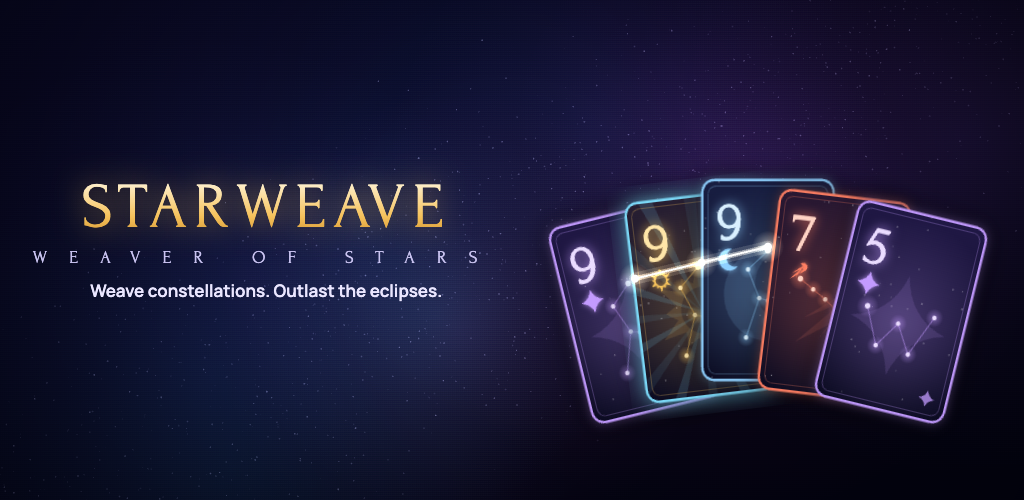
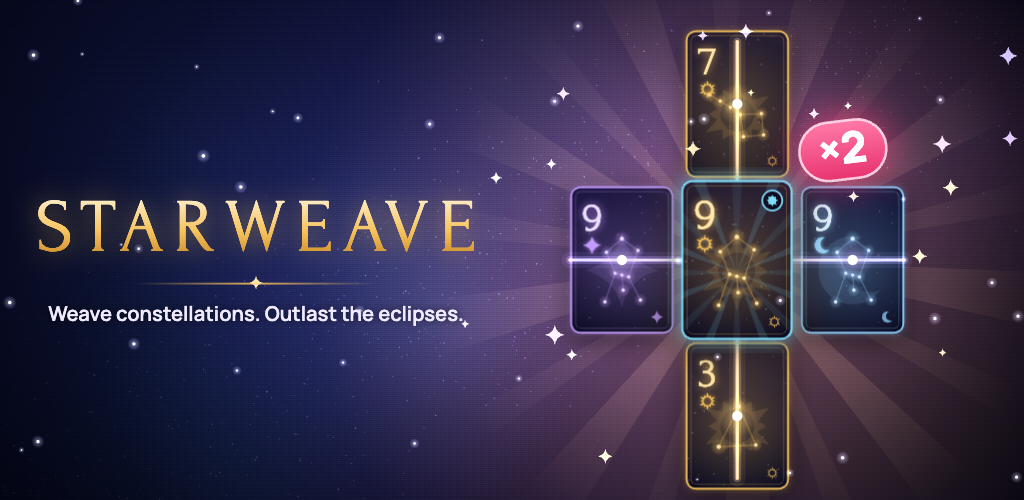
feat(store): new store cover built around the cross
The old cover was a dim fan of cards with a squeezed fallback-font title.
The new one shows the game's signature moment: a row of three nines and a
column of suns crossing on one card, both lines lit, light rays and a ×2
badge in a free corner, warm and violet halos over the nebula, sparkles.
The title uses the menu logo's exact look (Forum, 0.14em tracking, gold
gradient, glow) on two lines in Russian, sized to fit instead of squeezed.

Also fixed a path leak: sparkle shapes were appended to the badge path and
filled it white. Store assets regenerated; Telegram's 640x360 image is now
rendered at its own size instead of cropped.

diff --git a/src/dev/promo.ts b/src/dev/promo.ts
@@ -1,13 +1,27 @@
 import { cardFace } from '@/art/card';
-import { glowDot } from '@/art/glyphs';
+import { glowDot, roundRect, sparklePath } from '@/art/glyphs';
 import { renderNebula } from '@/art/nebula';
 import { DISPLAY_FONT, BODY_FONT } from '@/art/palette';
 import type { Card } from '@/core/types';
 import { t } from '@/i18n';
 
+type Ctx = CanvasRenderingContext2D;
+type Face = Pick<Card, 'suit' | 'rank' | 'glyph'>;
+
+/** Детерминированный «случай» — обложка одинакова при каждой генерации. */
+function rand(seed: number): () => number {
+  let s = seed;
+  return () => {
+    s = (s * 16807) % 2147483647;
+    return s / 2147483647;
+  };
+}
+
 /**
- * Обложка для витрин (`?promo`): небо, веер карт с крестом созвездий, логотип.
- * Рисуется на весь экран — Playwright снимает её в нужном размере (800×470 и т.п.).
+ * Обложка для витрин (`?promo`). В центре — главный момент игры: крест. Ряд из трёх девяток
+ * (Тройка) и столбец солнц (Флеш) пересекаются на одной карте, обе линии вспыхивают, ×2.
+ * Слева (или сверху на вертикальной обложке) — название нашим шрифтом и слоган.
+ * Рисуется на весь экран — Playwright снимает в нужном размере (800×470, 1024×500, 640×360).
  */
 export function showPromo(root: HTMLElement): void {
   const w = window.innerWidth;
@@ -20,74 +34,238 @@ export function showPromo(root: HTMLElement): void {
   root.append(canvas);
   const ctx = canvas.getContext('2d')!;
   ctx.scale(dpr, dpr);
-  ctx.drawImage(renderNebula(w, h, 31), 0, 0, w, h);
 
   const wide = w / h > 1.2;
-  const cardW = Math.round(Math.min(h * 0.3, w * (wide ? 0.13 : 0.24)));
-  const cards: Pick<Card, 'suit' | 'rank' | 'glyph'>[] = [
-    { suit: 'star', rank: 9 },
-    { suit: 'sun', rank: 9, glyph: 'radiant' },
-    { suit: 'moon', rank: 9 },
-    { suit: 'comet', rank: 7 },
-    { suit: 'star', rank: 5 },
-  ];
-  // Веер карт справа (на широкой обложке) или снизу (на вертикальной)
-  const cx = wide ? w * 0.75 : w / 2;
-  const cy = wide ? h * 0.56 : h * 0.66;
-  const pts: { x: number; y: number }[] = [];
-  cards.forEach((card, i) => {
-    const k = i - (cards.length - 1) / 2;
-    const img = cardFace(card, cardW, dpr);
-    const cw = cardW * 1.24;
-    const ch = (cardW / 0.7) * 1.24;
-    const x = cx + k * cardW * (wide ? 0.5 : 0.62);
-    const y = cy + Math.abs(k) * cardW * 0.12;
-    ctx.save();
-    ctx.translate(x, y);
-    ctx.rotate(k * 0.12);
-    ctx.shadowColor = 'rgba(0,0,0,0.6)';
-    ctx.shadowBlur = 24;
-    ctx.drawImage(img, -cw / 2, -ch / 2, cw, ch);
-    ctx.restore();
-    pts.push({ x, y: y - cardW * 0.25 });
-  });
-  // Линия созвездия над тремя девятками — как вспышка в игре
+  // Крест: справа на широкой обложке, снизу — на вертикальной
+  const cx = wide ? w * 0.72 : w / 2;
+  const cy = wide ? h * 0.52 : h * 0.62;
+  const cardW = Math.round(wide ? Math.min(h * 0.205, w * 0.11) : Math.min(w * 0.2, h * 0.11));
+  const cardH = cardW / 0.7;
+
+  drawSky(ctx, w, h, cx, cy, dpr);
+  drawCross(ctx, cx, cy, cardW, cardH, dpr);
+  drawSparkles(ctx, w, h, cx, cy, cardW);
+  drawTitle(ctx, w, h, wide);
+}
+
+/** Небо: туманность, тёплое сияние за крестом и виньетка, уводящая взгляд к центру. */
+function drawSky(ctx: Ctx, w: number, h: number, cx: number, cy: number, dpr: number): void {
+  ctx.drawImage(renderNebula(w, h, 31, undefined, dpr), 0, 0, w, h);
   ctx.save();
   ctx.globalCompositeOperation = 'lighter';
-  for (const [lw, a] of [[12, 0.12], [5, 0.35], [2, 1]] as const) {
-    ctx.strokeStyle = `rgba(255,236,190,${a})`;
-    ctx.lineWidth = lw;
-    ctx.lineCap = 'round';
+  const r = Math.max(w, h);
+  const halo = (x: number, y: number, rad: number, rgb: string, a: number) => {
+    const g = ctx.createRadialGradient(x, y, 0, x, y, rad);
+    g.addColorStop(0, `rgba(${rgb},${a})`);
+    g.addColorStop(1, `rgba(${rgb},0)`);
+    ctx.fillStyle = g;
+    ctx.fillRect(0, 0, w, h);
+  };
+  halo(cx, cy, r * 0.42, '246,170,70', 0.32);
+  halo(cx - r * 0.12, cy + r * 0.05, r * 0.5, '140,90,255', 0.22);
+  halo(w * 0.18, h * 0.3, r * 0.45, '60,120,255', 0.14);
+  ctx.restore();
+  const vig = ctx.createRadialGradient(cx, cy, Math.min(w, h) * 0.35, w / 2, h / 2, Math.hypot(w, h) * 0.65);
+  vig.addColorStop(0, 'rgba(0,0,10,0)');
+  vig.addColorStop(1, 'rgba(0,0,10,0.55)');
+  ctx.fillStyle = vig;
+  ctx.fillRect(0, 0, w, h);
+}
+
+function drawCard(ctx: Ctx, face: Face, x: number, y: number, cardW: number, dpr: number): void {
+  const img = cardFace(face, cardW, dpr);
+  const pad = Math.ceil(cardW * 0.12);
+  const iw = cardW + pad * 2;
+  const ih = Math.round(cardW / 0.7) + pad * 2;
+  ctx.save();
+  ctx.shadowColor = 'rgba(0,0,0,0.55)';
+  ctx.shadowBlur = cardW * 0.25;
+  ctx.shadowOffsetY = cardW * 0.06;
+  ctx.drawImage(img, x - iw / 2, y - ih / 2, iw, ih);
+  ctx.restore();
+}
+
+/** Светящаяся линия созвездия: широкий мягкий слой, средний и яркая сердцевина. */
+function glowLine(ctx: Ctx, from: { x: number; y: number }, to: { x: number; y: number }, rgb: string, width: number): void {
+  ctx.save();
+  ctx.globalCompositeOperation = 'lighter';
+  ctx.lineCap = 'round';
+  for (const [k, a] of [[4.5, 0.07], [2.2, 0.2], [1, 0.55], [0.4, 0.95]] as const) {
+    ctx.strokeStyle = `rgba(${rgb},${a})`;
+    ctx.lineWidth = width * k;
     ctx.beginPath();
-    pts.slice(0, 3).forEach((p, i) => (i ? ctx.lineTo(p.x, p.y) : ctx.moveTo(p.x, p.y)));
+    ctx.moveTo(from.x, from.y);
+    ctx.lineTo(to.x, to.y);
     ctx.stroke();
   }
-  for (const p of pts.slice(0, 3)) glowDot(ctx, p.x, p.y, 4, 'rgba(255,236,190,0.95)');
+  ctx.restore();
+}
+
+function drawCross(ctx: Ctx, cx: number, cy: number, cardW: number, cardH: number, dpr: number): void {
+  const dx = cardW * 1.12;
+  const dy = cardH * 1.06;
+  const row = [
+    { face: { suit: 'star', rank: 9 } as Face, x: cx - dx, y: cy },
+    { face: { suit: 'moon', rank: 9 } as Face, x: cx + dx, y: cy },
+  ];
+  const col = [
+    { face: { suit: 'sun', rank: 7 } as Face, x: cx, y: cy - dy },
+    { face: { suit: 'sun', rank: 3 } as Face, x: cx, y: cy + dy },
+  ];
+
+  // Лучи вспышки за центральной картой
+  ctx.save();
+  ctx.globalCompositeOperation = 'lighter';
+  ctx.translate(cx, cy);
+  const rays = 18;
+  const len = Math.max(dx, dy) * 2;
+  for (let i = 0; i < rays; i++) {
+    const a = (i / rays) * Math.PI * 2 + 0.13;
+    const spread = i % 2 ? 0.05 : 0.09;
+    const g = ctx.createLinearGradient(0, 0, Math.cos(a) * len, Math.sin(a) * len);
+    g.addColorStop(0, `rgba(255,214,140,${i % 2 ? 0.12 : 0.2})`);
+    g.addColorStop(1, 'rgba(255,214,140,0)');
+    ctx.fillStyle = g;
+    ctx.beginPath();
+    ctx.moveTo(0, 0);
+    ctx.lineTo(Math.cos(a - spread) * len, Math.sin(a - spread) * len);
+    ctx.lineTo(Math.cos(a + spread) * len, Math.sin(a + spread) * len);
+    ctx.closePath();
+    ctx.fill();
+  }
   ctx.restore();
 
-  // Логотип и слоган
-  const lx = wide ? w * 0.26 : w / 2;
-  const ly = wide ? h * 0.42 : h * 0.2;
-  const size = Math.min(wide ? w * 0.062 : w * 0.13, h * 0.16);
+  for (const c of [...row, ...col]) drawCard(ctx, c.face, c.x, c.y, cardW, dpr);
+
+  // Обе линии вспыхивают через крест: ряд (Тройка) — сиреневым, столбец (Флеш) — золотом
+  const lineW = cardW * 0.035;
+  glowLine(ctx, { x: cx - dx * 1.45, y: cy }, { x: cx + dx * 1.45, y: cy }, '190,170,255', lineW);
+  glowLine(ctx, { x: cx, y: cy - dy * 1.4 }, { x: cx, y: cy + dy * 1.4 }, '255,214,130', lineW);
+
+  // Центральная карта — поверх линий, с золотым ореолом
+  const big = cardW * 1.08;
+  ctx.save();
+  ctx.shadowColor = 'rgba(255,200,110,0.95)';
+  ctx.shadowBlur = cardW * 0.6;
+  roundRect(ctx, cx - big / 2, cy - big / 1.4, big, big / 0.7, big * 0.09);
+  ctx.fillStyle = 'rgba(255,220,150,0.35)';
+  ctx.fill();
+  ctx.restore();
+  drawCard(ctx, { suit: 'sun', rank: 9, glyph: 'radiant' }, cx, cy, big, dpr);
+
+  // Узлы созвездий в центрах карт
+  for (const c of row) glowDot(ctx, c.x, c.y, cardW * 0.05, 'rgba(200,180,255,0.9)');
+  for (const c of col) glowDot(ctx, c.x, c.y, cardW * 0.05, 'rgba(255,214,130,0.9)');
+
+  // Метка «×2» — как во вспышке креста в игре
+  const fs = cardW * 0.42;
+  ctx.save();
+  ctx.font = `800 ${fs}px ${BODY_FONT}`;
+  const pw = ctx.measureText('×2').width + fs * 0.9;
+  const ph = fs * 1.35;
+  // В свободном углу над рядом, справа от верхней карты — не закрывает ни одного ранга
+  ctx.translate(cx + cardW / 2 + pw * 0.62, cy - cardH / 2 - ph * 0.62);
+  ctx.rotate(-0.12);
+  ctx.shadowColor = 'rgba(255,60,120,0.85)';
+  ctx.shadowBlur = fs * 0.9;
+  roundRect(ctx, -pw / 2, -ph / 2, pw, ph, ph / 2);
+  const g = ctx.createLinearGradient(0, -ph / 2, 0, ph / 2);
+  g.addColorStop(0, '#ff7aa8');
+  g.addColorStop(1, '#e8336f');
+  ctx.fillStyle = g;
+  ctx.fill();
+  ctx.shadowColor = 'transparent';
+  ctx.lineWidth = Math.max(1, fs * 0.06);
+  ctx.strokeStyle = 'rgba(255,220,235,0.9)';
+  ctx.stroke();
+  ctx.fillStyle = '#fff';
   ctx.textAlign = 'center';
   ctx.textBaseline = 'middle';
-  ctx.font = `400 ${size}px ${DISPLAY_FONT}`;
-  const grad = ctx.createLinearGradient(0, ly - size / 2, 0, ly + size / 2);
-  grad.addColorStop(0, '#fff6dc');
-  grad.addColorStop(0.6, '#f6c25b');
-  grad.addColorStop(1, '#c98a2a');
-  ctx.shadowColor = 'rgba(246,194,91,0.6)';
-  ctx.shadowBlur = 30;
-  ctx.fillStyle = grad;
-  ctx.letterSpacing = `${size * 0.12}px`;
-  ctx.fillText(t('game.title').toUpperCase(), lx, ly, wide ? w * 0.48 : w * 0.92);
-  ctx.shadowBlur = 0;
-  ctx.letterSpacing = `${size * 0.35}px`;
-  ctx.font = `400 ${size * 0.28}px ${DISPLAY_FONT}`;
-  ctx.fillStyle = '#c9c3f0';
-  if (t('game.subtitle')) ctx.fillText(t('game.subtitle').toUpperCase(), lx, ly + size * 0.75);
+  ctx.fillText('×2', 0, fs * 0.04);
+  ctx.restore();
+}
+
+/** Искры вокруг креста и редкие звёзды по небу. */
+function drawSparkles(ctx: Ctx, w: number, h: number, cx: number, cy: number, cardW: number): void {
+  const r = rand(7);
+  ctx.save();
+  ctx.globalCompositeOperation = 'lighter';
+  for (let i = 0; i < 26; i++) {
+    const a = r() * Math.PI * 2;
+    const d = cardW * (1.2 + r() * 2.6);
+    const x = cx + Math.cos(a) * d;
+    const y = cy + Math.sin(a) * d * 0.85;
+    const s = cardW * (0.03 + r() * 0.07);
+    const warm = r() < 0.5;
+    if (x < 0 || x > w || y < 0 || y > h) continue;
+    ctx.fillStyle = warm ? 'rgba(255,226,170,0.9)' : 'rgba(210,200,255,0.9)';
+    ctx.beginPath();
+    sparklePath(ctx, x, y, s, 4, 0.22);
+    ctx.fill();
+  }
+  for (let i = 0; i < 40; i++) glowDot(ctx, r() * w, r() * h, 0.6 + r() * 1.2, 'rgba(220,215,255,0.7)');
+  ctx.restore();
+}
+
+/** Название без сжатия букв: кегль подбирается под ширину, по-русски — в две строки. */
+function drawTitle(ctx: Ctx, w: number, h: number, wide: boolean): void {
+  const lines = t('game.title').toUpperCase().split(' ');
+  const blockW = wide ? w * 0.44 : w * 0.86;
+  const lx = wide ? w * 0.25 : w / 2;
+  ctx.textAlign = 'center';
+  ctx.textBaseline = 'alphabetic';
+  let size = Math.min(wide ? h * 0.15 : w * 0.16, h * 0.15);
+  const widest = () => {
+    ctx.font = `400 ${size}px ${DISPLAY_FONT}`;
+    ctx.letterSpacing = `${size * 0.14}px`; // как у логотипа в меню
+    return Math.max(...lines.map((l) => ctx.measureText(l).width));
+  };
+  while (widest() > blockW && size > 10) size *= 0.95;
+  const lineH = size * 1.02;
+  const tagSize = Math.max(11, size * 0.27);
+  const blockH = lines.length * lineH + tagSize * 2.4;
+  const top = wide ? h / 2 - blockH / 2 + size * 0.85 : h * 0.07 + size;
+
+  lines.forEach((line, i) => {
+    const y = top + i * lineH;
+    const g = ctx.createLinearGradient(0, y - size * 0.8, 0, y + size * 0.1);
+    // Те же цвета и свечение, что у логотипа в меню (.logo-main)
+    g.addColorStop(0, '#fff6dc');
+    g.addColorStop(0.6, '#f6c25b');
+    g.addColorStop(1, '#c98a2a');
+    // Свечение отдельным слоем, буквы — чётко поверх
+    ctx.save();
+    ctx.shadowColor = 'rgba(246,194,91,0.55)';
+    ctx.shadowBlur = size * 0.35;
+    // letterSpacing добавляет интервал и после последней буквы — сдвигаем на половину, как padding-left у логотипа
+    const x = lx + size * 0.07;
+    ctx.fillStyle = g;
+    ctx.fillText(line, x, y);
+    ctx.restore();
+    ctx.fillStyle = g;
+    ctx.fillText(line, x, y);
+  });
+
+  // Тонкий орнамент и слоган
+  const oy = top + (lines.length - 1) * lineH + size * 0.42;
+  const ow = Math.min(blockW * 0.6, size * 3.2);
+  const og = ctx.createLinearGradient(lx - ow / 2, 0, lx + ow / 2, 0);
+  og.addColorStop(0, 'rgba(246,194,91,0)');
+  og.addColorStop(0.5, 'rgba(246,194,91,0.9)');
+  og.addColorStop(1, 'rgba(246,194,91,0)');
+  ctx.fillStyle = og;
+  ctx.fillRect(lx - ow / 2, oy, ow, Math.max(1, size * 0.025));
+  ctx.fillStyle = '#ffe3a6';
+  ctx.beginPath();
+  sparklePath(ctx, lx, oy, size * 0.09, 4, 0.25);
+  ctx.fill();
+
   ctx.letterSpacing = '0px';
-  ctx.font = `600 ${size * (wide ? 0.27 : 0.24)}px ${BODY_FONT}`;
-  ctx.fillStyle = '#eae6ff';
-  ctx.fillText(t('game.tagline'), lx, ly + size * 1.3);
+  ctx.font = `600 ${tagSize}px ${BODY_FONT}`;
+  ctx.fillStyle = '#efeaff';
+  ctx.save();
+  ctx.shadowColor = 'rgba(0,0,0,0.6)';
+  ctx.shadowBlur = 8;
+  ctx.fillText(t('game.tagline'), lx, oy + tagSize * 1.9);
+  ctx.restore();
 }

diff --git a/e2e/store-assets.spec.ts b/e2e/store-assets.spec.ts
@@ -53,9 +53,11 @@ for (const lang of ['ru', 'en'] as const) {
     test(`обложки ${lang}`, async ({ browser }) => {
       mkdirSync(`${OUT}/yandex`, { recursive: true });
       mkdirSync(`${OUT}/google-play`, { recursive: true });
+      mkdirSync(`${OUT}/telegram`, { recursive: true });
       for (const [w, h, file] of [
         [800, 470, `${OUT}/yandex/cover-800x470-${lang}.png`],
         [1024, 500, `${OUT}/google-play/feature-1024x500-${lang}.png`],
+        [640, 360, `${OUT}/telegram/app-640x360-${lang}.png`],
       ] as const) {
         const page = await browser.newPage({ viewport: { width: w, height: h }, deviceScaleFactor: 1 });
         await page.goto(`/?promo&lang=${lang}`);

diff --git a/store/README.md b/store/README.md
@@ -8,6 +8,7 @@
 | Яндекс Игры | иконка 512×512 | `yandex/icon-512.png` |
 | | обложка 800×470 | `yandex/cover-800x470-ru.png`, `-en.png` |
 | | скриншоты | `screens/ru/*`, `screens/en/*` |
+| Telegram Mini App | картинка 640×360 | `telegram/app-640x360-ru.png`, `-en.png` |
 | Google Play / RuStore | баннер 1024×500 | `google-play/feature-1024x500-ru.png`, `-en.png` |
 | | скриншоты телефона 1080×1920 | `screens/*/portrait-*.png` |
 | | скриншоты ландшафт 1920×1080 | `screens/*/landscape-*.png` |
